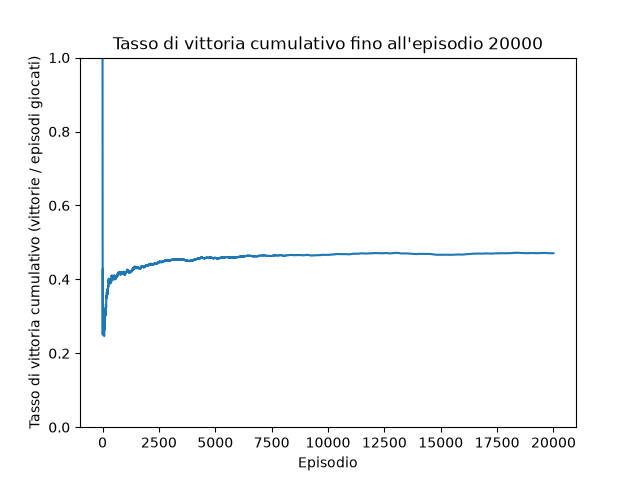
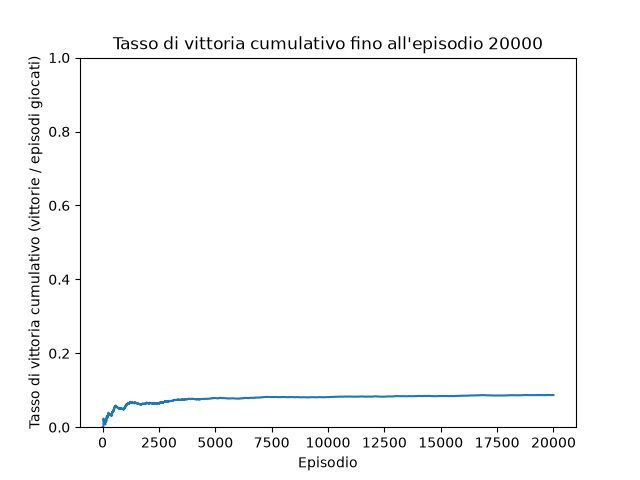
feature dinamiche

diff --git a/Minesweeper/LavoroDef/ESARSAms.py b/Minesweeper/LavoroDef/ESARSAms.py
@@ -75,7 +75,7 @@ for e in range(num_episodes):
     quantenascoste0 = len(nascoste0)
 
     '''features della cella in esame'''
-    features = aux.genera_features(ambiente, index0, listadict, bombe/quantenascoste0)
+    features = aux.genera_features(ambiente, index0, listadict, bombe/quantenascoste0, bombe)
 
     done = None
 
@@ -114,7 +114,7 @@ for e in range(num_episodes):
             bestvalue = None
             indicebestvalue = None
             for i in nascoste:
-                proxfeat = aux.genera_features(ambiente, i, proxlistadict, bombe/quantenascoste)
+                proxfeat = aux.genera_features(ambiente, i, proxlistadict, bombe/quantenascoste, bombe)
                 valorefeat = Q.get(proxfeat,0.0)
                 prossime.append(valorefeat)
                 if bestvalue is None or valorefeat > bestvalue:
@@ -138,7 +138,7 @@ for e in range(num_episodes):
         quantenascoste = len(nascoste)
 
         '''features della cella in esame'''
-        features = aux.genera_features(ambiente, index, listadict, bombe/quantenascoste)
+        features = aux.genera_features(ambiente, index, listadict, bombe/quantenascoste, bombe)
 
         _, reward, done = ambiente.step(index)
 
@@ -177,7 +177,7 @@ for e in range(num_episodes):
                 bestvalue = None
                 indicebestvalue = None
                 for i in nascoste:
-                    proxfeat = aux.genera_features(ambiente, i, proxlistadict, bombe/quantenascoste)
+                    proxfeat = aux.genera_features(ambiente, i, proxlistadict, bombe/quantenascoste, bombe)
                     valorefeat = Q.get(proxfeat,0.0)
                     prossime.append(valorefeat)
                     if bestvalue is None or valorefeat > bestvalue:

diff --git a/Minesweeper/LavoroDef/ausiliarie.py b/Minesweeper/LavoroDef/ausiliarie.py
@@ -55,7 +55,7 @@ def posizione (vicini):
         pos = "centrale"
     return pos
 
-def genera_features (ambiente, a, listadict, proporzione):
+def genera_features (ambiente, a, listadict, proporzione, bombe):
     '''Questa funzione genera la tupla delle features in base
     ai valori vicini e alla posizione approssimativa sulla griglia
     (quindi non le coordinate esatte)'''
@@ -115,8 +115,12 @@ def genera_features (ambiente, a, listadict, proporzione):
     else:
         prop = 'alta'
 
-    '''fornisco le features come tupla dei 6 valori calcolati'''
-    features = (nascoste, pos, rischio, prop, minvicini, maxvicini)
+    '''Restituisco le features in base a quanto è grande la griglia'''
+    if bombe <= 3:
+        '''fornisco le features come tupla dei 6 valori calcolati'''
+        features = (nascoste, pos, rischio, prop, minvicini, maxvicini)
+    else: 
+        features = (nascoste, pos, rischio)
 
     '''features = defaultdict(float)
     features["nascoste"] = nascoste
